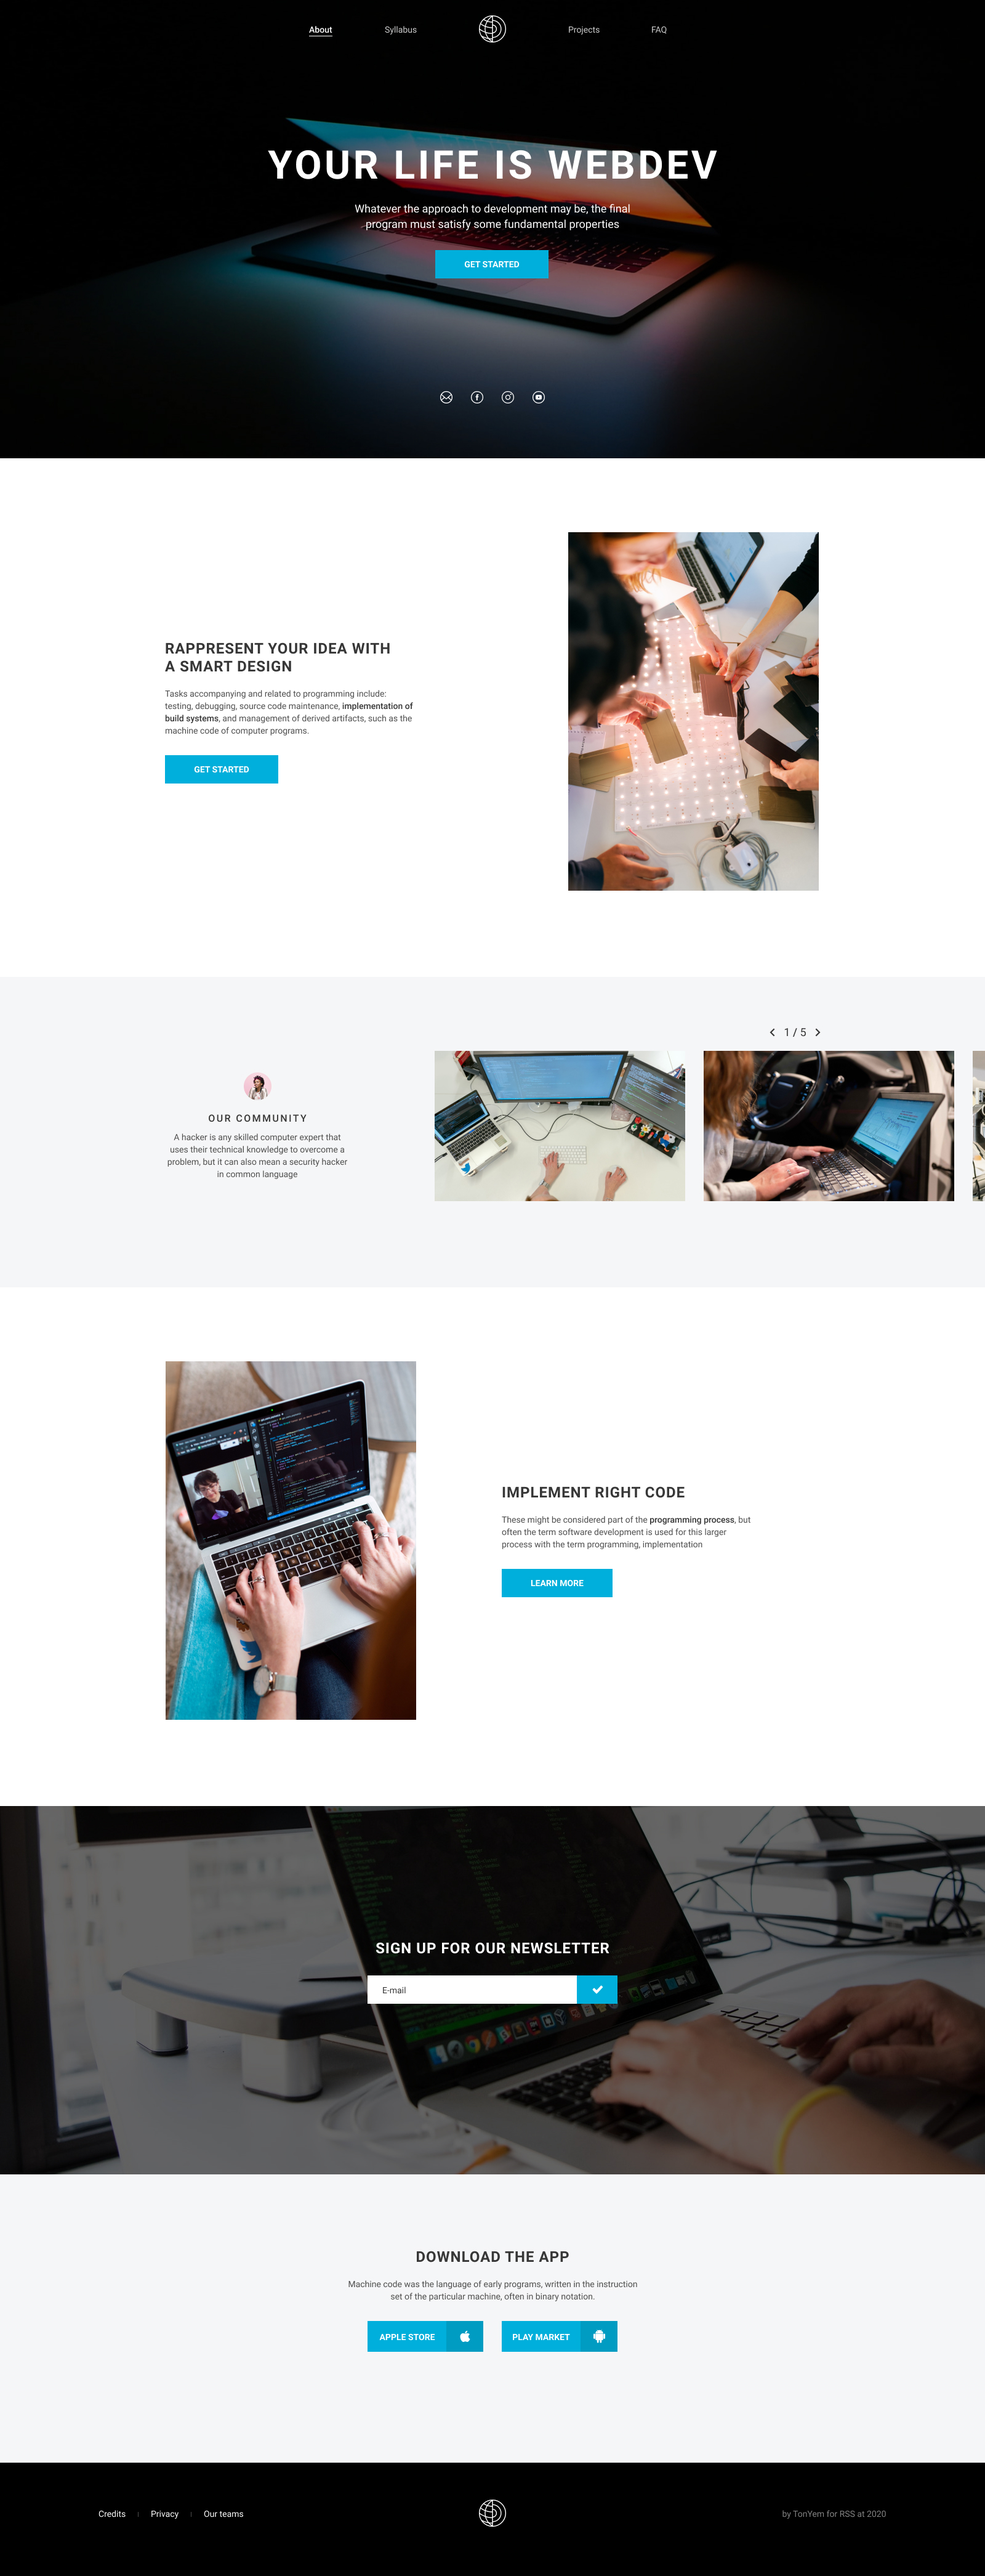
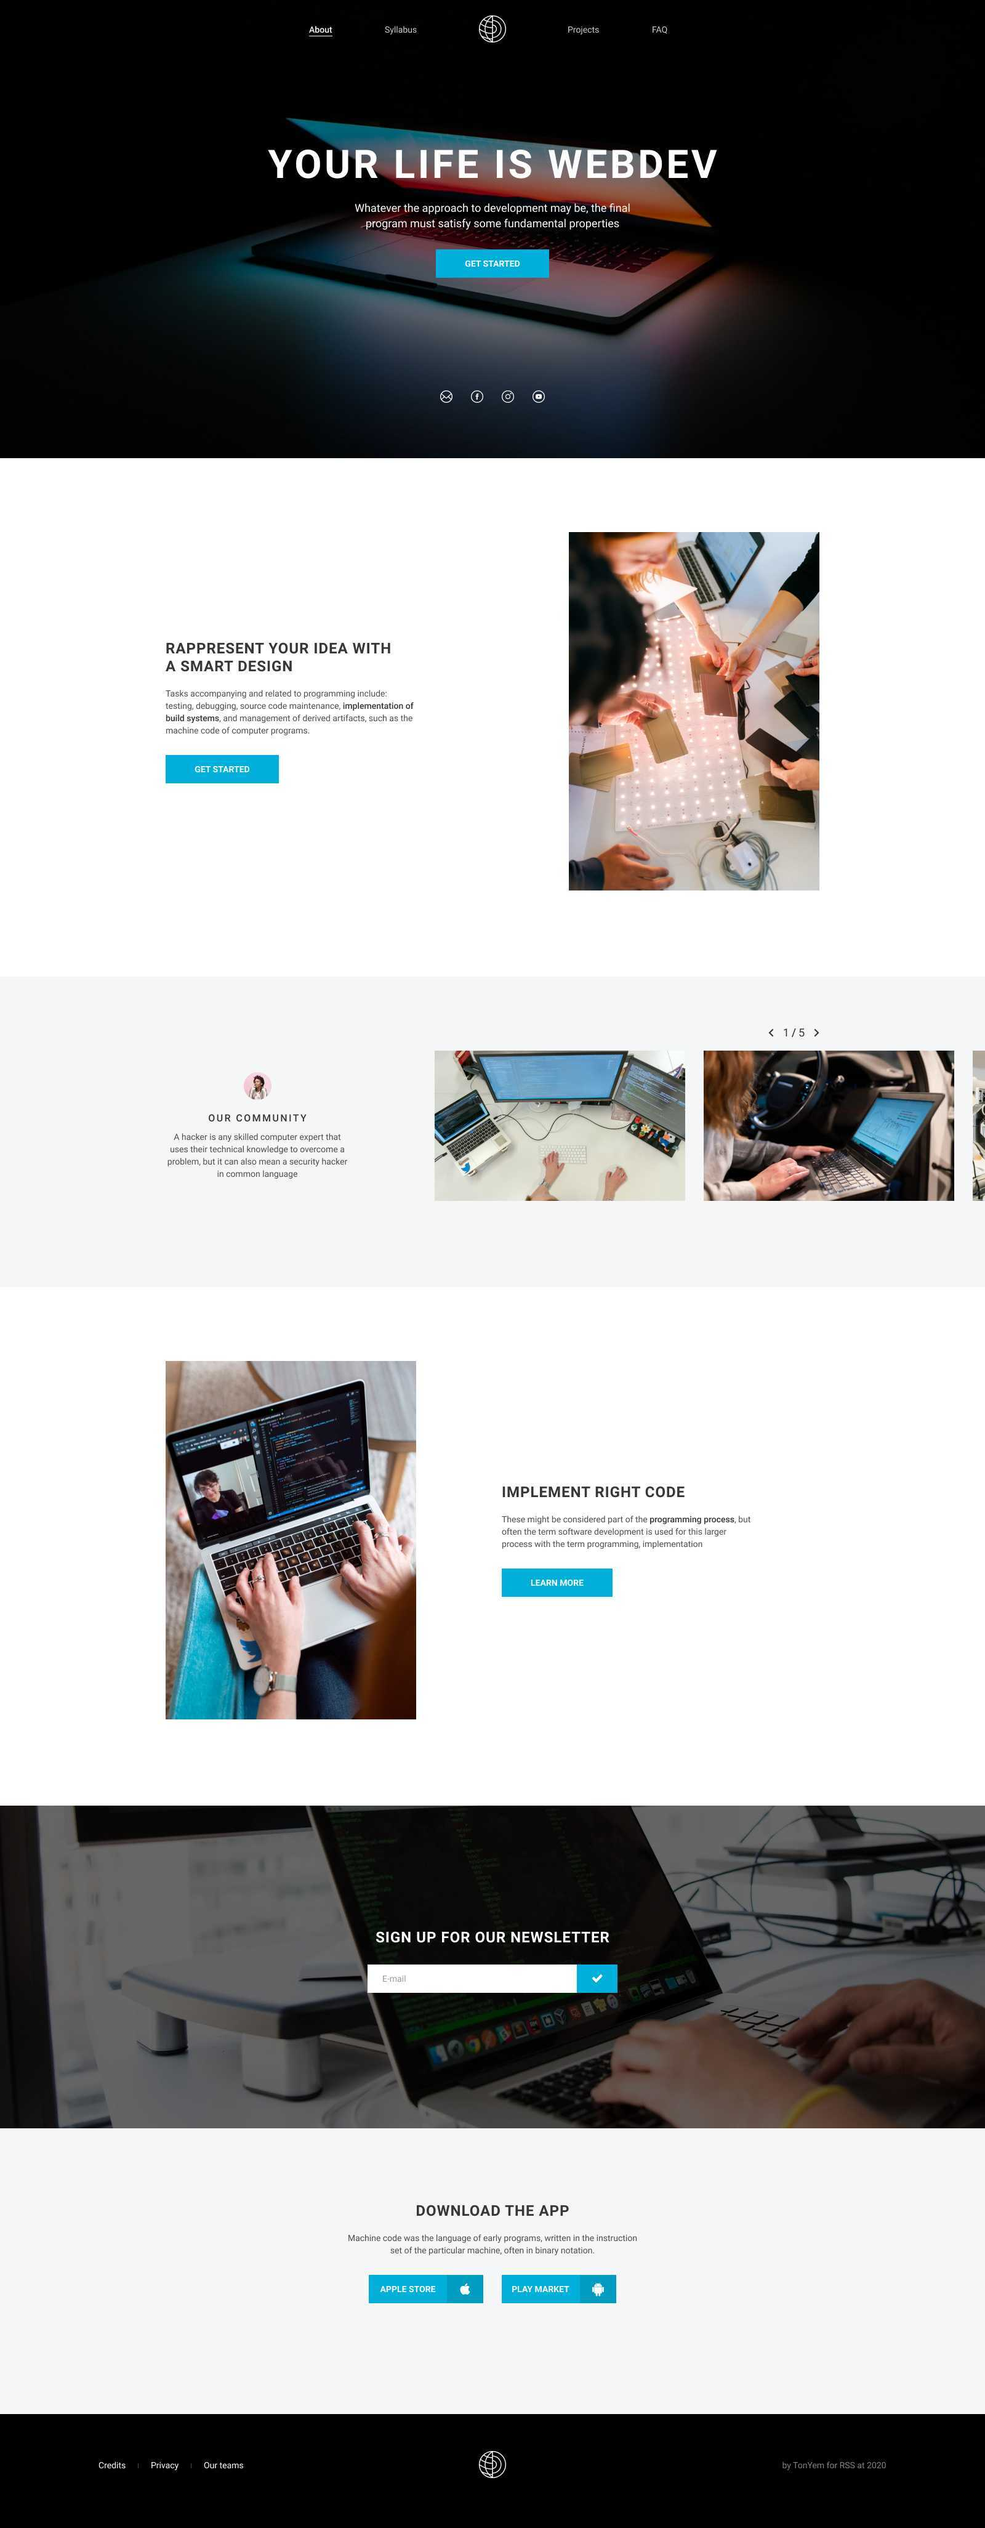
feat: implement pixel perfect

diff --git a/index.html b/index.html
@@ -20,7 +20,7 @@
                 <li class="nav__item"> 
                   <a href="#" class="nav__link nav__link--active">About</a>
                 </li>
-                <li class="nav__item">
+                <li class="nav__item nav__item--margin--l">
                   <a href="#" class="nav__link">Syllabus</a>
                 </li>
                 <div class="logo nav__item nav__item--margin--l">
@@ -84,8 +84,10 @@
     <section class="about">
       <div class="container about__container">
         <div class="about__desc">
-          <h2 class="section__title">Rappresent your idea with
-            a smart Design</h2>
+          <div class="about__title">
+            <h2 class="section__title">Rappresent your idea with
+              a smart Design</h2>
+          </div>
           <p class="about__text">Tasks accompanying and related to programming include: testing, debugging, source code maintenance, <strong class="about__text-bold">implementation of build systems,</strong> and management of derived artifacts, such as the machine code of computer programs. </p>
           <a href="#" class="btn">Get started</a>
         </div>
@@ -171,9 +173,9 @@
           <p class="download__text">Machine code was the language of early programs, written in the instruction set of the particular machine, often in binary notation.</p>
           <div class="download__btns">
             <a href="#" class="download__btn">
-              <span class="download__btn-text">App store</span>
+              <span class="download__btn-text">Apple store</span>
               <button class="download__btn-icon" type="button">
-                <svg width="17" height="20" viewBox="0 0 17 20" fill="none" xmlns="http://www.w3.org/2000/svg">
+                <svg class="download__btn-img" width="17" height="20" viewBox="0 0 17 20" fill="none" xmlns="http://www.w3.org/2000/svg">
                   <path fill-rule="evenodd" clip-rule="evenodd" d="M16.4817 14.0825C15.8054 13.8852 15.1978 13.4244 14.6704 12.7002C14.1431 11.9762 13.8794 11.1535 13.8794 10.2539C13.8794 9.42026 14.1316 8.66317 14.6246 7.98302C14.8997 7.59918 15.3354 7.17135 15.9315 6.68856C15.5417 6.2278 15.1404 5.85489 14.7392 5.59164C14.0284 5.1198 13.2145 4.87857 12.2973 4.87857C11.7356 4.87857 11.0707 5.01011 10.3141 5.2515C9.55745 5.5038 9.00713 5.62442 8.67466 5.62442C8.41102 5.62442 7.88368 5.51473 7.09265 5.29533C6.29011 5.07595 5.62525 4.96626 5.0635 4.96626C3.74512 4.96626 2.66747 5.49288 1.80766 6.54595C0.947852 7.61011 0.512207 8.97041 0.512207 10.6489C0.512207 12.4479 1.08544 14.2801 2.19747 16.1668C3.3324 18.0538 4.46733 19.0082 5.64816 19.0082C6.02649 19.0082 6.5309 18.8876 7.16142 18.6353C7.78049 18.3939 8.33077 18.2731 8.78934 18.2731C9.25934 18.2731 9.844 18.3828 10.5204 18.6242C11.2082 18.8547 11.7356 18.9753 12.1254 18.9753C13.0998 18.9753 14.0858 18.2622 15.0717 16.8252C15.7366 15.8707 16.1952 14.9492 16.4817 14.0825ZM12.1712 1.21444C12.1712 1.13767 12.1598 1.0718 12.1598 0.995036C12.1483 0.929194 12.1254 0.852426 12.1024 0.753662C10.7726 1.04981 9.80965 1.58752 9.23641 2.37736C8.66323 3.1672 8.36518 4.11058 8.34225 5.19657C8.88102 5.15272 9.27082 5.08688 9.53447 5.01011C9.94718 4.87857 10.3599 4.61518 10.7726 4.22027C11.2541 3.75949 11.6095 3.25489 11.8388 2.70643C12.0566 2.16888 12.1712 1.66428 12.1712 1.21444Z" fill="white"/>
                   </svg>
               </button>
@@ -181,7 +183,7 @@
             <a href="#" class="download__btn">
               <span class="download__btn-text">Play market</span>
               <button class="download__btn-icon" type="button">
-                <svg width="20" height="23" viewBox="0 0 20 23" fill="none" xmlns="http://www.w3.org/2000/svg">
+                <svg class="download__btn-img" width="20" height="23" viewBox="0 0 20 23" fill="none" xmlns="http://www.w3.org/2000/svg">
                   <path fill-rule="evenodd" clip-rule="evenodd" d="M7.6466 5.17217C7.36306 5.17217 7.13354 4.93339 7.13354 4.65484C7.13354 4.37629 7.36306 4.13753 7.6466 4.13753C7.94361 4.13753 8.17313 4.37629 8.17313 4.65484C8.17313 4.93339 7.94361 5.17217 7.6466 5.17217ZM13.3439 5.17217C13.0469 5.17217 12.8174 4.93339 12.8174 4.65484C12.8174 4.37629 13.0469 4.13753 13.3439 4.13753C13.6274 4.13753 13.8569 4.37629 13.8569 4.65484C13.8569 4.93339 13.6274 5.17217 13.3439 5.17217ZM2.3813 7.61293C1.61173 7.61293 0.990723 8.22316 0.990723 8.9659V14.6698C0.990723 15.426 1.61173 16.0362 2.3813 16.0362C3.15079 16.0362 3.75834 15.426 3.75834 14.6698V8.9659C3.75834 8.22316 3.13734 7.61293 2.3813 7.61293ZM16.6921 7.86492H4.29839V16.6995C4.29839 17.5086 4.95996 18.1586 5.78348 18.1586H6.78251L6.79603 21.1698C6.79603 21.9259 7.41709 22.5362 8.17313 22.5362C8.94264 22.5362 9.56369 21.9259 9.56369 21.1698V18.1586H11.4268V21.1698C11.4268 21.9259 12.0478 22.5362 12.8174 22.5362C13.5869 22.5362 14.208 21.9259 14.208 21.1698V18.1586H15.2205C16.0306 18.1586 16.6921 17.5086 16.6921 16.6995V7.86492ZM13.5599 2.49263L14.5185 0.754861C14.5725 0.662112 14.5455 0.542656 14.451 0.489668C14.3564 0.449732 14.2349 0.476314 14.181 0.569213L13.2089 2.32019C12.3853 1.96195 11.4673 1.7631 10.4952 1.7631C9.52319 1.7631 8.60511 1.96195 7.78159 2.32019L6.80954 0.569213C6.75553 0.476314 6.63401 0.449732 6.53952 0.489668C6.44498 0.542656 6.418 0.662112 6.47203 0.754861L7.43055 2.49263C5.52699 3.44775 4.24442 5.27828 4.24442 7.38734H16.7326C16.7326 5.27828 15.45 3.44775 13.5599 2.49263ZM19.9998 8.9659C19.9998 8.20981 19.3787 7.61293 18.6092 7.61293C17.8532 7.61293 17.2321 8.20981 17.2321 8.9659V14.6698C17.2321 15.426 17.8532 16.0362 18.6092 16.0362C19.3787 16.0362 19.9998 15.426 19.9998 14.6698V8.9659Z" fill="white"/>
                   </svg>
               </button>

diff --git a/style.css b/style.css
@@ -54,6 +54,7 @@ h1, h2, h3, h4, h5, h6, p {
 }
 
 button {
+  padding: 0;
   border: none;
   background: transparent;
   cursor: pointer;
@@ -95,10 +96,10 @@ table {
 }
 
 .section__title {
-  margin-bottom: 20px;
+  margin-bottom: 24px;
   font-weight: 700;
   font-size: 24px;
-  line-height: 1.17;
+  line-height: 28px;
   letter-spacing: 1px;
   text-transform: uppercase;
 
@@ -111,7 +112,7 @@ table {
 }
 
 .card-title {
-  margin-bottom: 10px;
+  margin-bottom: 12px;
 
   font-weight: 500;
   font-size: 16px;
@@ -135,8 +136,8 @@ table {
 }
 
 .header {
-  padding: 23px 0px;
-  margin-bottom: 130px;
+  padding: 26px 0px;
+  margin-bottom: 128px;
 }
 
 .nav__list {
@@ -146,8 +147,8 @@ table {
 }
 
 .nav__item {
-  margin-right: 85px;
-  padding-bottom: 3px;
+  margin-right: 86px;
+  padding-bottom: 5px;
 }
 
 .nav__item--margin--l {
@@ -155,7 +156,7 @@ table {
 }
 
 .nav__item:last-child {
-  margin-right: 0;
+  margin-right: 10px;
 }
 
 .nav__link {
@@ -172,7 +173,7 @@ table {
 }
 
 .page__title {
-  margin-bottom: 20px;
+  margin-bottom: 22px;
   font-size: 64px;
   line-height: 1.17;
   font-weight: 700;
@@ -189,7 +190,7 @@ table {
 
 .hero__desc {
   width: 470px;
-  margin-bottom: 30px;
+  margin-bottom: 29px;
 
   font-size: 18px;
   text-align: center;
@@ -228,6 +229,10 @@ table {
   padding-bottom: 140px;
 }
 
+.about__title {
+  width: 390px;
+}
+
 .about__container {
   display: flex;
   justify-content: space-between;
@@ -235,7 +240,7 @@ table {
 }
 
 .about__desc {
-  width: 406px;
+  width: 405px;
 }
 
 .about__text {
@@ -260,7 +265,7 @@ table {
 
 .community__content {
   width: 298px;
-  margin-right: 139px;
+  margin-right: 138px;
 
   display: flex;
   flex-direction: column;
@@ -302,8 +307,8 @@ table {
 
 .slider__controls {
   position: absolute;
-  top: -38px;
-  left: 546px;
+  top: -42px;
+  left: 542px;
 }
 
 .controls {
@@ -316,12 +321,12 @@ table {
 }
 
 .controls__btn:first-child {
-  margin-right: 10px;
+  margin-right: 8px;
 }
 
 .controls__btn:hover {
   cursor: pointer;
-  opacity: .6;
+  opacity: .5;
 }
 
 .controls__counters {
@@ -360,13 +365,14 @@ table {
 }
 
 .subscribe {
-  min-height: 598px;
+  min-height: 524px;
   height: 1px;
   background: url('assets/img/sign-up.jpg') no-repeat 50% 50%;
   background-size: cover;
 }
 
 .subscribe__content {
+  margin-bottom: 22px;
   display: flex;
   flex-direction: column;
   align-items: center;
@@ -394,30 +400,36 @@ table {
 
 .subscribe__input::-webkit-input-placeholder { 
   color: var(--dark2); 
+  opacity: .5;
 }
 
 .subscribe__input::-moz-placeholder  { 
   color: var(--dark2); 
+  opacity: .5;
 }
 
 .subscribe__input:-ms-input-placeholder  { 
   color: var(--dark2); 
+  opacity: .5;
 }
 
 .subscribe__submit {
   width: 66px;
   height: 46px;
   background-color: var(--blue);
+  display: flex;
+  align-items: center;
+  justify-content: center;
 }
 
-.subscribe__form:hover .subscribe__submit {
+.subscribe__submit:hover {
   cursor: pointer;
   background-color: var(--blue-dark);
   transition: .3s;
 }
 
 .download {
-  min-height: 468px;
+  min-height: 464px;
   height: 1px;
   padding-bottom: 180px;
   padding-top: 100px;
@@ -453,7 +465,7 @@ table {
   display: inline-flex;
   margin-right: 30px;
   cursor: pointer;
-  min-height: 50px;
+  min-height: 46px;
 }
 
 .download__btn:last-child {
@@ -461,8 +473,8 @@ table {
 }
 
 .download__btn-text {
-  padding: 15px 18px;
-  min-width: 128px;
+  padding: 13px 18px;
+  min-width: 127px;
   display: flex;
   align-items: center;
   justify-content: center;
@@ -479,8 +491,11 @@ table {
 }
 
 .download__btn-icon {
-  width: 60px;
-  height: 50px;
+  width: 59px;
+  height: 46px;
+  display: flex;
+  justify-content: center;
+  align-items: center;
   background-color: var(--blue-dark);
 }
 
